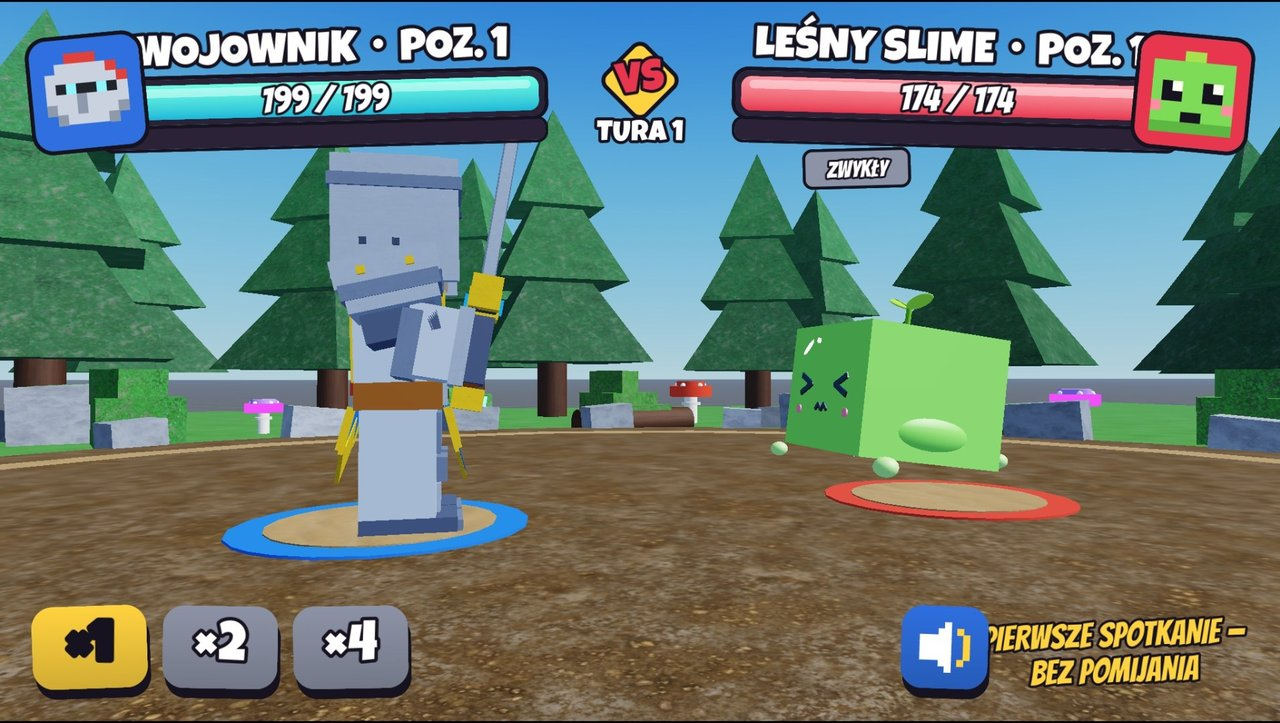
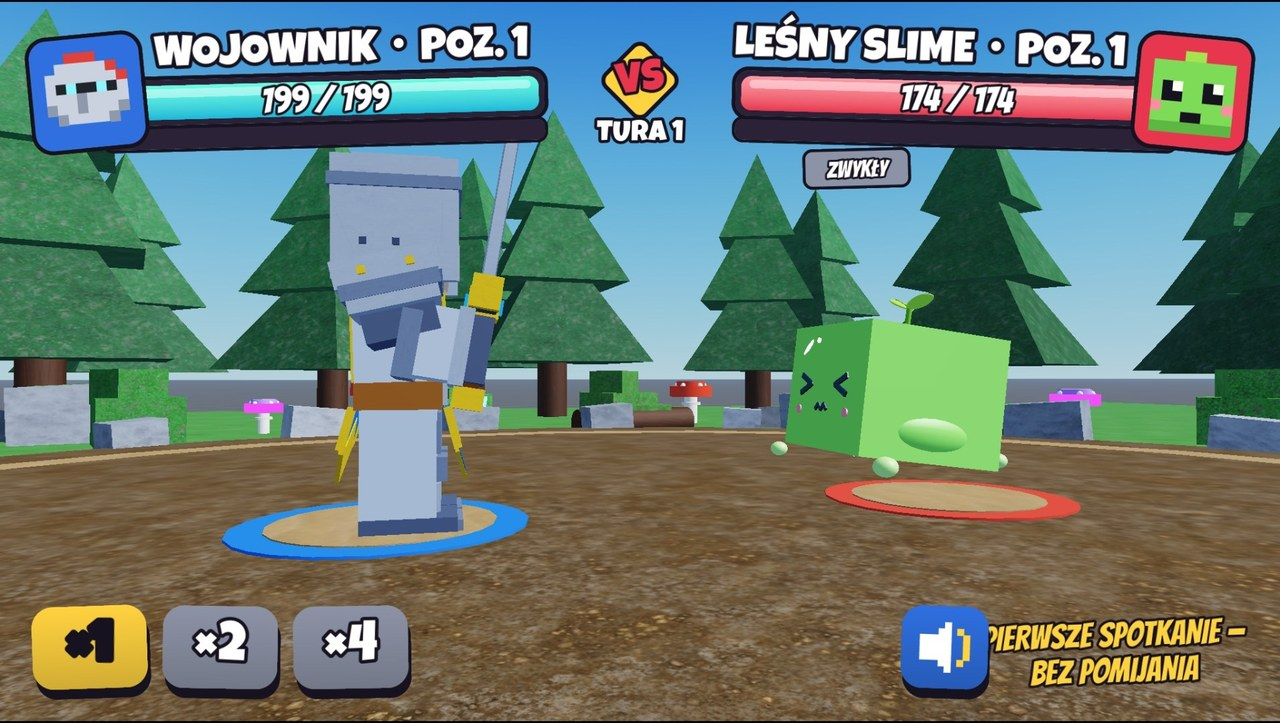
Ekran walki: cel zostaje w kadrze po zbliżeniu, poziom przeciwnika nie chowa się pod portretem
- kamera: atak po zbliżeniu na inną postać niż nowy cel zawsze dostaje swoje
  ujęcie (w długiej walce stare zbliżenie zostawało i cel był poza kadrem)
- tabliczki: nazwa zaczyna się za portretem („POZ. 10” czytało się jak „POZ. 1”)
- wdrożone w Studio (TestWalki2), testy Play na ostatecznym kodzie:
  test_v3_play 44/46, test_poprawek_play 25/27, las-pas 17 × OK + koszt „?”

diff --git a/swiat/test_walki2/README.md b/swiat/test_walki2/README.md
@@ -238,6 +238,8 @@ zachowanie zdalnej funkcji i mostka w Play, kompilator Luau i typy (interpreter 
 5. Play, `testy/test_v3_play.py`: przebieg ze zrzutami o 02:57 **44/46**; końcowy przebieg o 03:47 na ostatecznym
    kodzie (`--bez-zrzutow`, `testy/wynik_v3.json`) **43/46** — dodatkowy BŁĄD „telefon 844 × 390: walka” to baner
    „WALKA!” zmierzony w połowie animacji wejścia (skala 0,3 → 1 w 0,28 s; 7 pkt) — chwila pomiaru, nie stały napis.
+   Po dwóch poprawkach z 04:00 (kadr po zbliżeniu, nazwa za portretem — niżej) pełny przebieg o 04:05
+   (`--bez-zrzutow`, obecny `testy/wynik_v3.json`): **44/46**, nie przechodzi tylko panel wyboru na telefonie.
    Pomijanie P1–P8 i nowe P8b OK (pierwsza walka
    bez przycisku i z „PIERWSZE SPOTKANIE — BEZ POMIJANIA”, spacja i oszustwo z klienta odrzucone, wymuszony pokaz bez
    zgody = JESZCZE RAZ z odliczaniem, druga walka z przyciskiem i gracz wolny od razu, inny gatunek znów bez
@@ -255,7 +257,8 @@ zachowanie zdalnej funkcji i mostka w Play, kompilator Luau i typy (interpreter 
    tury). Prawdopodobnie klatka 66,7 ms pod zaciemnieniem (ok. 1 klatka narzutu na zdarzenie) — „?” do sprawdzenia
    przy zwykłym ekranie. Pierwszy przebieg miał też BŁĄD 1a (E przy tablicy) — błąd próby (kamera po ekranie wyboru
    klasy patrzyła obok tablicy), poprawione w `sesja_play.py`.
-7. `testy/test_poprawek_play.py` (`testy/wynik_poprawek.json`): **24/27**. Część „zero” (−0 przy pełnej tarczy) nie
+7. `testy/test_poprawek_play.py` (`testy/wynik_poprawek.json`): **24/27**, po poprawce kadru z 04:00 **25/27**
+   (długa walka: 24 trafienia w kadrze; zostają dwa pierwsze punkty z listy niżej). Część „zero” (−0 przy pełnej tarczy) nie
    dotyczy v3 — tarcza procentowa: w 17 955 walkach (3 klasy × 5 potworów × poziomy 1/5/10 × ziarna 1–399) nie ma
    trafienia 0 z pochłonięciem; ziarna z v2 rzucały wyjątkiem (`IndexError`), teraz część to pomija z wpisem w
    konsoli. Trzy BŁĘDY kadru (powtarzalne, kod kamery bez zmian od v2 — inne ziarna v3):
@@ -266,7 +269,7 @@ zachowanie zdalnej funkcji i mostka w Play, kompilator Luau i typy (interpreter 
    - długa walka, zd. 24 (unik slime'a przed Wojownikiem, ujęcie „zbliżenie”): **slime'a nie ma w kadrze** (0%) —
      kamera trzyma zbliżenie na miejscu celu, a Wojownik po doskoku wypełnia kadr. Zrzut
      `klatki/v3_kadr_unik_bez_celu.jpg`. Próba wyłączenia zbliżenia dla zdarzeń „unik” nic nie dała (ujęcie zostaje
-     z poprzedniego zdarzenia) i została cofnięta — do poprawki w choreografii kamery.
+     z poprzedniego zdarzenia) i została cofnięta. **Naprawione o 04:00** — patrz „Poprawione po Studio”, p. 3.
 8. `testy/telefon.py` (zrzuty poza repozytorium): walka i panel wyniku na 844 × 390 i 667 × 375 ≥ 12 pkt (stopka
    wyniku 10 pkt — dozwolona); **panel wyboru: 5 napisów < 12 pkt** (te same co w p. 5).
 9. Lasy na v3 z pomijaniem: las-pas 17 × OK + P14 „?” (`swiat/las_pas_gra/README.md`), stary las 5/5
@@ -285,6 +288,17 @@ zachowanie zdalnej funkcji i mostka w Play, kompilator Luau i typy (interpreter 
 2. `InterfejsWalki2` / `WyborWalki2`: `string.upper` nie zmienia polskich liter („STRAżNIK GAJU” w panelu wyboru,
    tak samo tytuły karteczek pasywek „OGNISTA RóżDżKA” i wstęga „UśCISK KORZENI”; w kadrze walki font komiksowy
    rysuje same wielkie litery, więc było to widać głównie w panelu). Nowa funkcja `Interfejs.wielkie`.
+3. `OdtwarzaczWalki2.proponujUjecie` (04:00): **cel poza kadrem po zbliżeniu**. W długiej walce (tura > 12) zwykłe
+   ujęcia są pomijane co drugie, a krótsze niż `MIN_UJECIA` w ogóle — kamera zostawała więc w zbliżeniu na
+   broniącego także wtedy, gdy następny atak wyprowadzał właśnie on. Zbliżenie pokazuje tylko jego miejsce stania,
+   więc po doskoku kadr wypełniał sam atakujący, a cel był poza kadrem. Teraz atak po zbliżeniu na **inną** postać
+   niż nowy cel zawsze dostaje swoje ujęcie (z płynnym przejściem) — ta sama zasada, która od v2 obowiązuje po
+   ujęciach jednej postaci („naSiebie”, „efekt”). Sprawdzone: `test_poprawek_play.py --tylko kadr` — długa walka
+   24 trafienia i najdłuższa 49 trafień w kadrze.
+4. `InterfejsWalki2._zbudujTabliczke` (04:00): wyższa tabliczka v3 = większy portret, który **zasłaniał ostatni
+   znak nazwy przeciwnika** („POZ. 10” czytało się jak „POZ. 1”). Nazwa zaczyna się teraz za portretem (0,24 / 0,76
+   szerokości tabliczki zamiast 0,2 / 0,8). Zrzuty `v3_pomijanie_*` i `v3_telefon_667x375_*` zrobione po poprawce;
+   pozostałe zrzuty `v3_*` są sprzed niej (poziom przeciwnika częściowo pod portretem).
 
 **Poprawione w testach** (nie w grze): `test_v3_play.py` — P4 dostawał `za_szybko` (limit serwera 0,2 s tuż po P3)
 → przerwa 0,3 s; część „mana” czeka na koniec sesji walki P7 (wcześniej „walka nie wystartowała”); pomiar panelu na
@@ -303,21 +317,20 @@ znaczkiem ×3, „TRUCIZNA ×3”), `blok_wojownik` (tarcza, „BLOK −75%”),
 `wskrzeszenie_obu` (słup złotego światła, „WSKRZESZENIE!”, „+213”, szare pióro gracza i złote przeciwnika),
 `las_pas_walka` (walka ze slime'em z lasu-pasa na arenie prototypu, paski many obu stron), `las_pas_pominiecie`
 (druga walka z gatunkiem: przycisk POMIŃ, baner „WALKA!”), `las_stary_walka` (stary las: Zwiadowca kontra Strażnik
-Gaju, „KRYTYK!”, ranga STRAŻNIK), `kadr_unik_bez_celu` (błąd kadru z p. 7), `telefon_667x375_panel` (drobne nazwy
+Gaju, „KRYTYK!”, ranga STRAŻNIK), `kadr_unik_bez_celu` (błąd kadru z p. 7 — stan sprzed poprawki), `telefon_667x375_panel` (drobne nazwy
 przeciwników) / `_walka`. Pozostałe zrzuty `test_v3_play.py` (statusy, bloki potworów, wskrzeszenia osobno) usunięte
 z repozytorium — skrypt robi je przy każdym przebiegu.
 
 **Niesprawdzone / słabe miejsca:** prawdziwy telefon i dotyk; dwóch graczy; koszt klatki przy normalnym ekranie
-(wszystkie progi czasowe liczone przy 15 kl./s); panel wyboru na telefonie (p. 5, 8); kadr przy uniku (p. 7);
-podpowiedź na tablicy i tytuł panelu mają dalej napis „Walka v2”.
+(wszystkie progi czasowe liczone przy 15 kl./s); panel wyboru na telefonie (p. 5, 8); dwa graniczne kadry z p. 7
+(uderzenie z góry, uścisk korzeni); podpowiedź na tablicy i tytuł panelu mają dalej napis „Walka v2”.
 
 **Wybory do decyzji z wdrożenia:**
 1. **Panel wyboru prototypu na telefonie: jak zmieścić 6 przeciwników?**
    - Dziś: jeden rząd 6 przycisków — nazwy 10–11 pkt na 667 × 375.
    - Opcja A: dwa rzędy po 3 (ikona z lewej, nazwa obok; ok. 2× szerzej).
    - Opcja B: zostawić (panel to narzędzie prób, nie ekran gry).
-2. **Unik w zbliżeniu: kamera ma śledzić cel czy przechodzić na ujęcie boczne?** (p. 7) — do decyzji przy
-   choreografii kamery.
+2. ~~Unik w zbliżeniu~~ — naprawione o 04:00 („Poprawione po Studio”, p. 3), bez decyzji.
 
 ## Jak obejrzeć (krok po kroku)
 
